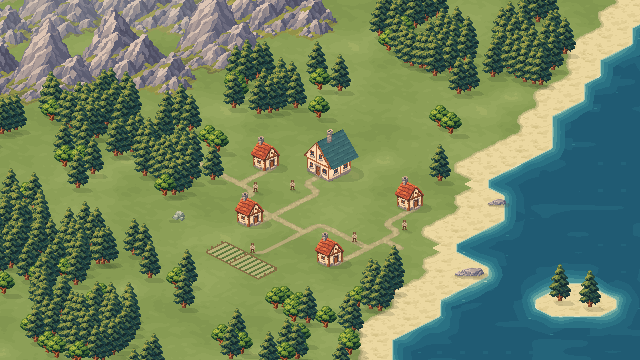
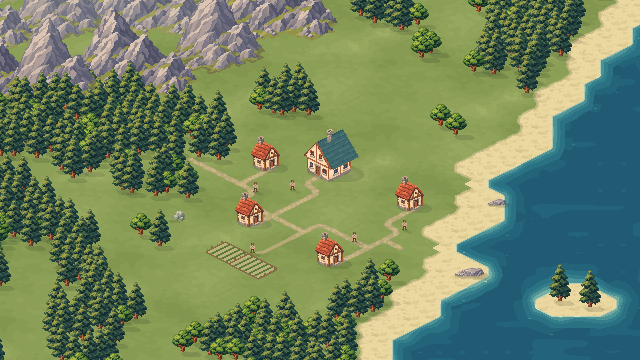
refine(map): create irregular woodland edges and natural clearings

diff --git a/assets/pixel-mat/miniworld-showcase/map.html b/assets/pixel-mat/miniworld-showcase/map.html
@@ -15,7 +15,7 @@
   <nav aria-label="지도 보기 조절"><button id="fit" type="button">전체 보기</button><button id="native" type="button">100%</button><button id="minus" type="button" aria-label="지도 축소">−</button><span id="zoom" aria-label="현재 확대 배율">100%</span><button id="plus" type="button" aria-label="지도 확대">+</button></nav>
  </header>
  <main><canvas id="map" tabindex="0" aria-label="Miniworld 지도. 휠로 확대하고 드래그로 이동합니다. 방향키로 이동하고 더하기와 빼기 키로 확대와 축소할 수 있습니다."></canvas><div id="message">지도를 불러오는 중…</div></main>
- <footer><p>휠 · 두 손가락으로 확대 / 드래그 · 방향키로 이동</p><p><a href="../../../#pixel-mat">포트폴리오로 돌아가기</a> · <a href="coastal-map.png?v=20261123" target="_blank" rel="noopener noreferrer">전체 이미지</a></p></footer>
+ <footer><p>휠 · 두 손가락으로 확대 / 드래그 · 방향키로 이동</p><p><a href="../../../#pixel-mat">포트폴리오로 돌아가기</a> · <a href="coastal-map.png?v=20261123-forest-v12" target="_blank" rel="noopener noreferrer">전체 이미지</a></p></footer>
  <script>
  const canvas=document.querySelector('#map'),ctx=canvas.getContext('2d'),box=canvas.parentElement,mapImage=new Image(),message=document.querySelector('#message'),zoomLabel=document.querySelector('#zoom');
  let W=0,H=0,scale=1,tx=0,ty=0,ready=false,gesture=null;const pointers=new Map();
@@ -24,7 +24,7 @@
  function fit(){scale=Math.max(.25,Math.min((W-24)/640,(H-24)/360));tx=(W-640*scale)/2;ty=(H-360*scale)/2;draw();}
  function zoom(x,y,factor){const next=Math.max(.25,Math.min(12,scale*factor));tx=x-(x-tx)*next/scale;ty=y-(y-ty)*next/scale;scale=next;draw();}
  function resize(){W=box.clientWidth;H=box.clientHeight;canvas.width=Math.round(W*devicePixelRatio);canvas.height=Math.round(H*devicePixelRatio);fit();}
- mapImage.onload=()=>{ready=true;message.hidden=true;message.style.display='none';draw();};mapImage.onerror=()=>{message.textContent='지도를 불러오지 못했습니다. 페이지를 새로고침해 주세요.';};mapImage.src='coastal-map-native.png?v=20261123';
+ mapImage.onload=()=>{ready=true;message.hidden=true;message.style.display='none';draw();};mapImage.onerror=()=>{message.textContent='지도를 불러오지 못했습니다. 페이지를 새로고침해 주세요.';};mapImage.src='coastal-map-native.png?v=20261123-forest-v12';
  canvas.addEventListener('wheel',event=>{event.preventDefault();const r=canvas.getBoundingClientRect();zoom(event.clientX-r.left,event.clientY-r.top,Math.exp(-event.deltaY*.0015));},{passive:false});
  canvas.addEventListener('pointerdown',event=>{canvas.setPointerCapture(event.pointerId);pointers.set(event.pointerId,[event.clientX,event.clientY]);gesture=null;});
  canvas.addEventListener('pointermove',event=>{if(!pointers.has(event.pointerId))return;const old=pointers.get(event.pointerId);pointers.set(event.pointerId,[event.clientX,event.clientY]);if(pointers.size===1){tx+=event.clientX-old[0];ty+=event.clientY-old[1];draw();}else{const p=[...pointers.values()],d=Math.hypot(p[0][0]-p[1][0],p[0][1]-p[1][1]),r=canvas.getBoundingClientRect(),x=(p[0][0]+p[1][0])/2-r.left,y=(p[0][1]+p[1][1])/2-r.top;if(gesture&&gesture.d>0){tx+=x-gesture.x;ty+=y-gesture.y;zoom(x,y,d/gesture.d);}gesture={x,y,d};}});

diff --git a/index.html b/index.html
@@ -12,7 +12,7 @@
   <link rel="stylesheet" href="styles/projects/shimanami.css?v=compact-tile-coordinates">
   <link rel="stylesheet" href="styles/project-details.css?v=plain-project-headings">
   <link rel="stylesheet" href="styles/projects/idea2strategy.css?v=uniform-project-visuals">
-  <script src="scripts/app.js?v=miniworld-map-20261123" defer></script>
+  <script src="scripts/app.js?v=miniworld-forest-20261123-v12" defer></script>
   <script src="scripts/idea2strategy/harness-flow.js?v=parallel-harness-flow" defer></script>
   <script type="module" src="scripts/shinjuku/traffic-view.js?v=attached-signal-status"></script>
   <script src="scripts/shinjuku/traffic-comparisons.js?v=distance-only-readout" defer></script>
@@ -317,8 +317,8 @@
        <p class="pm-map-note">PNG와 편집 프로젝트를 함께 저장하고, 실제 Unity 캡처의 원본 크기와 확대 화면에서 연결부를 확인했습니다.</p>
       </div>
       <figure class="pm-map-capture">
-       <button type="button" class="image-button pm-map-image" data-gallery="pixel-mat-map" aria-label="Unity 리소스 배치 화면 크게 보기"><img src="assets/pixel-mat/miniworld-showcase/coastal-map.png?v=20261123" width="1920" height="1080" alt="후방 산맥, 모래 해변과 섬, 밭으로 이어지는 길과 그림자를 다듬은 Unity 테스트 맵의 실제 카메라 캡처" loading="lazy"><span class="screenshot-expand" aria-hidden="true">크게 보기 ↗</span></button>
-       <figcaption><span>제작한 리소스를 배치한 Unity 테스트 맵</span><a class="pm-map-open" href="assets/pixel-mat/miniworld-showcase/map.html" target="_blank" rel="noopener noreferrer">지도 확대·이동 <span aria-hidden="true">↗</span></a></figcaption>
+       <button type="button" class="image-button pm-map-image" data-gallery="pixel-mat-map" aria-label="Unity 리소스 배치 화면 크게 보기"><img src="assets/pixel-mat/miniworld-showcase/coastal-map.png?v=20261123-forest-v12" width="1920" height="1080" alt="후방 산맥, 모래 해변과 섬, 밭으로 이어지는 길과 그림자를 다듬은 Unity 테스트 맵의 실제 카메라 캡처" loading="lazy"><span class="screenshot-expand" aria-hidden="true">크게 보기 ↗</span></button>
+       <figcaption><span>제작한 리소스를 배치한 Unity 테스트 맵</span><a class="pm-map-open" href="assets/pixel-mat/miniworld-showcase/map.html?v=20261123-forest-v12" target="_blank" rel="noopener noreferrer">지도 확대·이동 <span aria-hidden="true">↗</span></a></figcaption>
       </figure>
      </section>
     </section>

diff --git a/scripts/app.js b/scripts/app.js
@@ -165,7 +165,7 @@ dialog.addEventListener('close',()=>{
 });
 const gallery={
  'pixel-mat-editor':['pixel-mat/editor.png','Pixel Mat / Windows 편집기'],
- 'pixel-mat-map':['pixel-mat/miniworld-showcase/coastal-map.png?v=20261123','Miniworld용 리소스 / Unity 배치 테스트'],
+ 'pixel-mat-map':['pixel-mat/miniworld-showcase/coastal-map.png?v=20261123-forest-v12','Miniworld용 리소스 / Unity 배치 테스트'],
 
  'shimanami-exhibition':['shimanami/exhibition.webp','Shimanami Ekranoplan / 무사시노미술대학 전시 현장'],
  shinjuku:['shinjuku/street.webp','Shinjuku Live Street / 실제 플레이 화면'],
